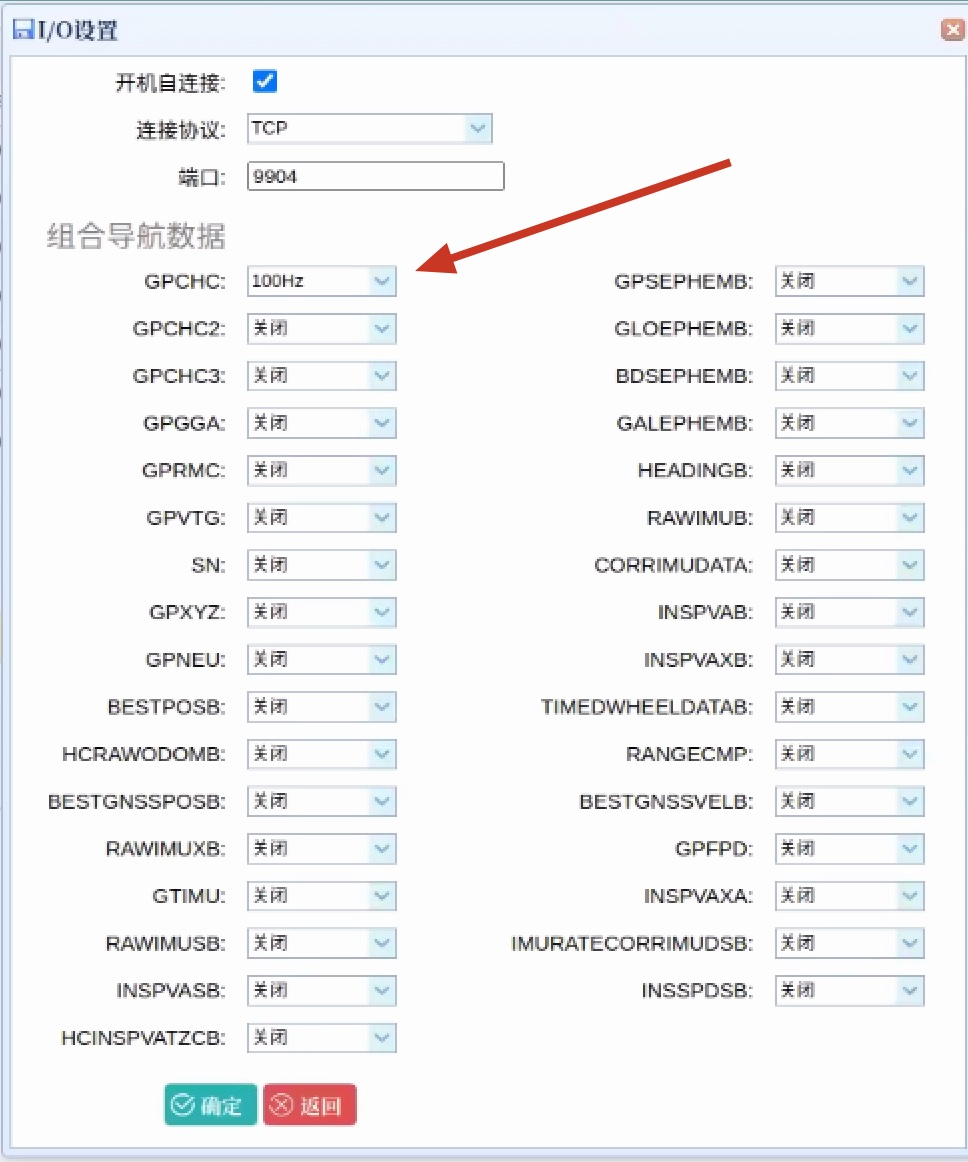
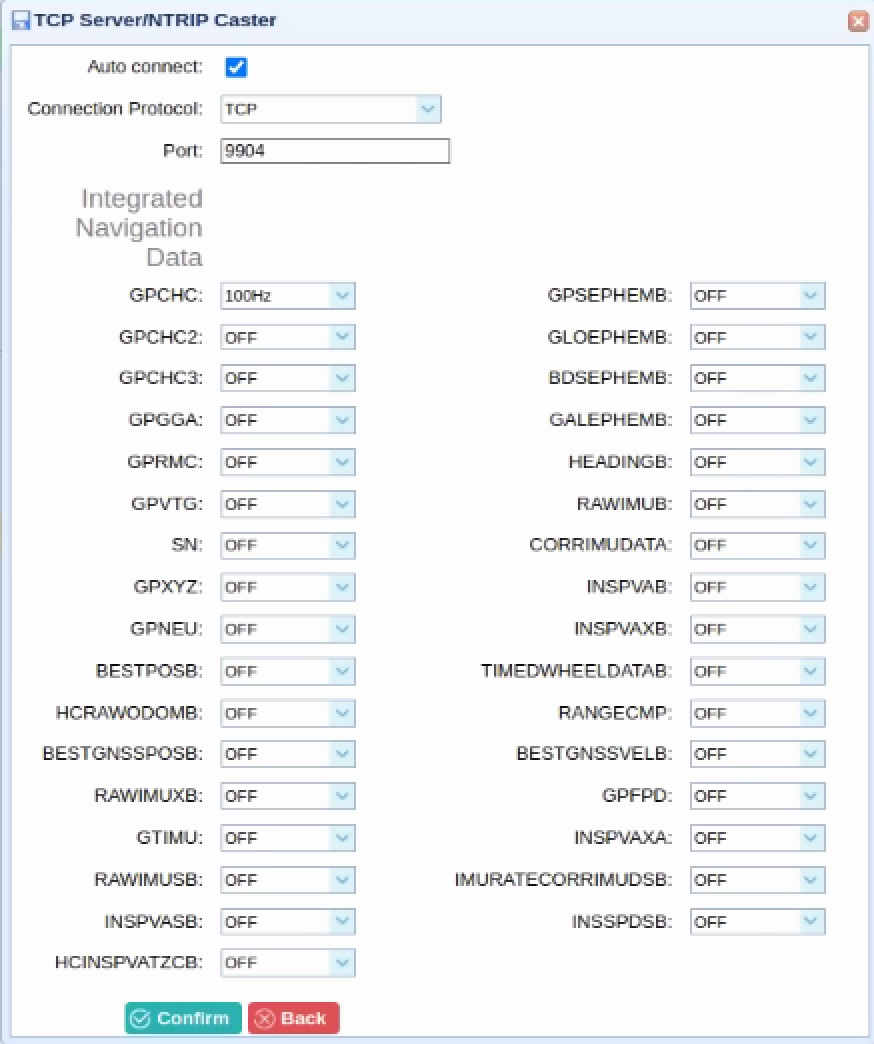
fix:Picture in Chinese

Changed region(s): [[0.0, 0.0, 1.0, 1.0], [0.5252, 0.2146, 0.9577, 0.9195], [0.7105, 0.1226, 0.7723, 0.1533]]

diff --git a/docs/sensor-calibration/IMU-calibration.md b/docs/sensor-calibration/IMU-calibration.md
@@ -16,9 +16,14 @@ IMU (Inertial Measurement Unit) is one of the important sensors in autonomous dr
 1. Open the `google_chrome` browser.
 2. Enter the website: `192.168.1.110`.
 3. Click in sequence: `I/O setting` -> `TCP Server/NTRIP Caster4` -> <kbd>Disconnect</kbd> -> <kbd>Connect</kbd>.
+
 ![](./image/IMU_calibration/configuration_CGI410_02.gif)
+
 ![](./image/IMU_calibration/configuration_CGI410_03.jpg)
 4. Open the terminal and enter: `nc 192.168.1.110 9904` to determine whether the combination navigation is connected to the industrial computer.
+![](./image/IMU_calibration/configuration_CGI410_03.gif)
+
+
 
 ### Step 2: Record IMU data preparation.
 - Recording time: 2 hours.

diff --git a/docs/sensor-calibration/LiDAR-camera-calibration.md b/docs/sensor-calibration/LiDAR-camera-calibration.md
@@ -130,7 +130,9 @@ Step 2: Fill in the `Calibration Results` in both `File 1` and `File 2`.
 ```shell
 ~/autoware_sim.sh
 ```
-![](./image/lidar2camera/result.jpg)
+![](./image/lidar2camera/World-coordinate-system-image-coordinate-system-and-camera-coordinate.jpg)
+
+![](./image/lidar2camera/result3.jpg)
 ![](./image/lidar2camera/result2.gif)
 
 ## NEXT
